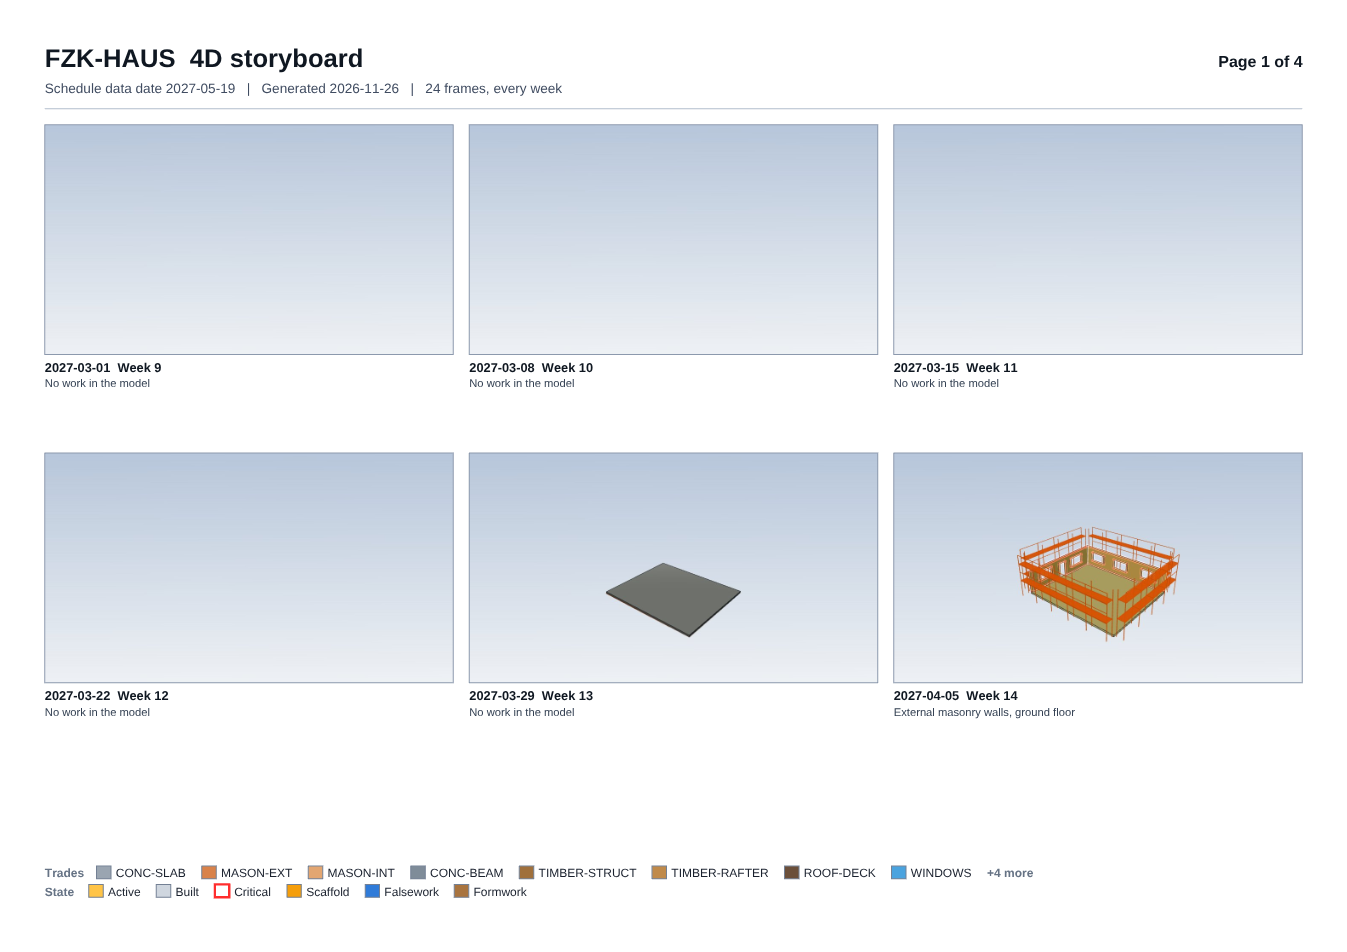
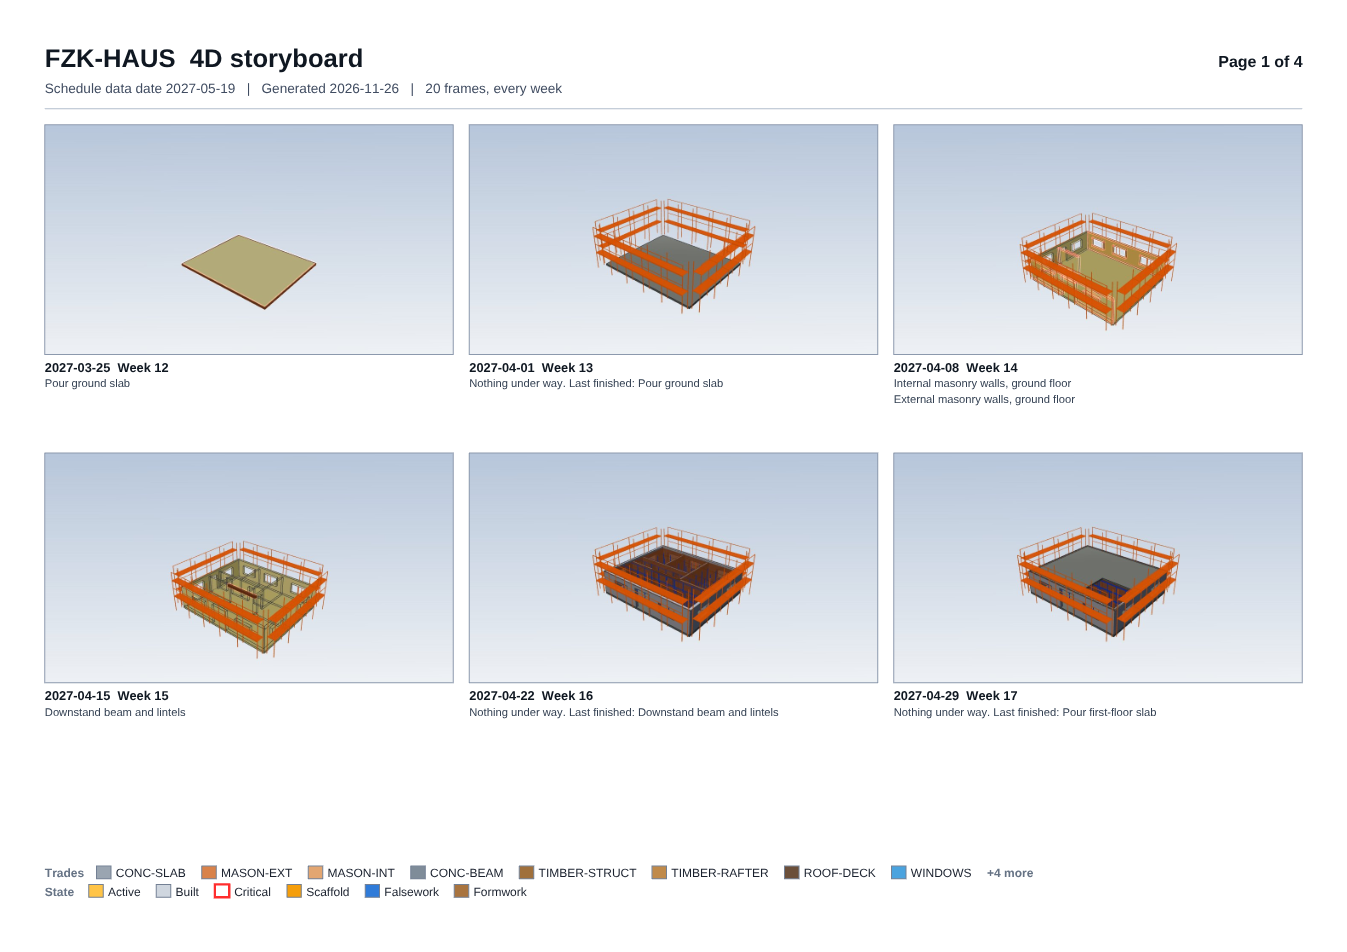
Storyboard starts at the first work in the model and names the last finished activity in quiet weeks; the play message no longer repeats the director note; the 4D strip stops before the gizmo on screen
Claude-Session: https://claude.ai/code/session_01Tq8KrjEb682fwDG9hgfxsD

diff --git a/web/src/schedule/storyboard.ts b/web/src/schedule/storyboard.ts
@@ -21,9 +21,19 @@ export function parseEvery(text: string | undefined): Every | null {
   return null;
 }
 
-/** The plan times (ms, increasing, inside the window) of the frames. The first frame is the start of the window, the last its end. */
+/** When the first activity that builds something in the model starts (ms), or null. Earlier frames would show an empty site. */
+export function firstWorkAt(plan: FourDPlan): number | null {
+  let t: number | null = null;
+  for (const k of plan.tasks) if (!k.milestone && k.elements > 0 && (t === null || k.start < t)) t = k.start;
+  return t;
+}
+
+/** The plan times (ms, increasing, inside the window) of the frames. The first frame is the start of the work in the model (the
+ *  start of the window when that is later), the last the end of the window. */
 export function storyboardDates(plan: FourDPlan, every: Every): number[] {
-  const { from, to } = plan.window;
+  const first = firstWorkAt(plan);
+  const to = plan.window.to;
+  const from = first !== null && first > plan.window.from && first < to ? first : plan.window.from;
   const out: number[] = [];
   const clip = (a: number[]): number[] => [...new Set(a.filter((x) => x >= from && x <= to))].sort((a, b) => a - b);
   switch (every.kind) {
@@ -79,7 +89,12 @@ export function captionAt(plan: FourDPlan, ms: number): FrameCaption {
   const running = plan.tasks.filter((k) => !k.milestone && k.start <= ms && ms < k.end && k.elements > 0).sort((a, b) => b.elements - a.elements || a.code.localeCompare(b.code));
   const lines = running.slice(0, CAPTION_ACTIVITIES).map((k) => k.name);
   if (running.length > CAPTION_ACTIVITIES) lines.push(`+${running.length - CAPTION_ACTIVITIES} more`);
-  if (lines.length === 0) lines.push(ms >= plan.window.to ? 'Complete' : 'No work in the model');
+  if (lines.length === 0) {
+    const done = plan.tasks.filter((k) => !k.milestone && k.elements > 0 && k.end <= ms).sort((a, b) => b.end - a.end);
+    if (ms >= plan.window.to) lines.push('Complete');
+    else if (done.length) lines.push(`Nothing under way. Last finished: ${done[0]!.name}`);
+    else lines.push('Before the work in the model');
+  }
   return { date, week: wk.week, weekYear: wk.year, title: `${date}  Week ${wk.week}`, lines };
 }
 

diff --git a/web/tests/fourd-storyboard.test.ts b/web/tests/fourd-storyboard.test.ts
@@ -4,7 +4,7 @@ import { buildDemoPlan } from '../src/anim/fourd/demoPlan';
 import type { DemoModel } from '../src/anim/fourd/demoPlan';
 import { legendContent, legendOn, stripOn } from '../src/anim/fourd/legend';
 import { stripGroups, stripLayout, stripHeight, MAX_STRIP_ROWS } from '../src/anim/hud/strip';
-import { captionAt, buildStoryboardPdf, pageLayout, parseEvery, planStoryboard, storyboardDates, winAnsi, PAGE_POINTS } from '../src/schedule/storyboard';
+import { captionAt, buildStoryboardPdf, firstWorkAt, pageLayout, parseEvery, planStoryboard, storyboardDates, winAnsi, PAGE_POINTS } from '../src/schedule/storyboard';
 import type { FourDPlan } from '../src/schedule/types';
 
 const classes = ['IfcSlab', 'IfcWall', 'IfcColumn', 'IfcDuctSegment', 'IfcCovering', 'IfcWindow'];
@@ -97,7 +97,16 @@ describe('schedule strip layout', () => {
 });
 
 describe('storyboard frame dates', () => {
-  const { from, to } = plan.window;
+  // Frames start where the work in the model starts (empty site frames before it are left out), at the latest the window start.
+  const to = plan.window.to;
+  const fw = firstWorkAt(plan);
+  const from = fw !== null && fw > plan.window.from ? fw : plan.window.from;
+  it('starts at the first activity that builds something, not at an empty site', () => {
+    expect(storyboardDates(plan, { kind: 'week' })[0]).toBeGreaterThanOrEqual(plan.window.from);
+    expect(storyboardDates(plan, { kind: 'week' })[0]).toBe(from);
+    const caption = captionAt(plan, plan.window.from - 1);
+    expect(caption.lines[0]).toMatch(/Before the work|Nothing under way|Complete/);
+  });
   it('week: every seven days from the start, ending on the last day', () => {
     const d = storyboardDates(plan, { kind: 'week' });
     expect(d[0]).toBe(from);

diff --git a/web/src/anim/hud/fourd.ts b/web/src/anim/hud/fourd.ts
@@ -58,6 +58,8 @@ export interface FourDLayoutInput {
   bottomLift: number;
   /** The compass sits top right: keep the S-curve below it. */
   compass: boolean;
+  /** CSS pixels at the right of the bottom edge to keep free (on-screen controls such as the gizmo); 0 in a video. */
+  reserveRight?: number;
   progressBar: boolean;
 }
 
@@ -327,7 +329,8 @@ export function layoutFourD(ctx: Ctx, inp: FourDLayoutInput): FourDLayout {
     const rowH = compact ? 4 : 7;
     const gs = stripGroups(plan);
     const h = stripHeight(gs.length, plan.milestones.some((m) => m.at >= stripRange(plan)[0] && m.at <= stripRange(plan)[1]), rowH);
-    const rect: Rect = { x: margin, y: bottomEdge - h, w: Math.max(40, W - 2 * margin), h };
+    const reserve = Math.min(Math.max(0, inp.reserveRight ?? 0), W * 0.5);
+    const rect: Rect = { x: margin, y: bottomEdge - h, w: Math.max(40, W - 2 * margin - reserve), h };
     if (gs.length > 0 && rect.y >= topLeftBottom) {
       const lay = stripLayout(plan, rect, v.planMs, { rowH });
       desc.strip = { rect, rows: lay.rows.length, bars: lay.rows.reduce((n, r) => n + r.bars.length, 0), marker: lay.marker.x };

diff --git a/web/src/anim/hud/overlay.ts b/web/src/anim/hud/overlay.ts
@@ -95,8 +95,23 @@ export class HudOverlay {
       pixelRatio: this.dpr,
       project: this.projector(cam),
       recording: false,
+      reserveRight: this.gizmoReserve(),
     });
     this.drawn = true;
+  }
+
+  /** How much of the bottom edge the gizmo covers, from its right end (CSS pixels), so the 4D strip stops before it. */
+  private gizmoReserve(): number {
+    try {
+      const g = document.getElementById('xray-gizmo');
+      if (!g || g.offsetParent === null) return 0;
+      const gr = g.getBoundingClientRect();
+      const cr = this.canvas.getBoundingClientRect();
+      if (gr.width === 0 || gr.top >= cr.bottom || gr.bottom <= cr.bottom - 120 || gr.left >= cr.right) return 0;
+      return Math.max(0, Math.round(cr.right - gr.left + 8));
+    } catch {
+      return 0;
+    }
   }
 
   /** Project with the full canvas (the camera's aspect), then shift into the drawing area; points outside it give null. */

diff --git a/web/src/map4d/scheduleController.ts b/web/src/map4d/scheduleController.ts
@@ -455,7 +455,7 @@ export class ScheduleController {
     if (!player) return { ok: false, message: 'The score player is not available.' };
     const ok = player.play(score, { ...(from !== undefined ? { from } : {}), onEnd: () => this.emit() });
     this.emit();
-    return ok ? { ok: true, message: this.note || `Playing ${Math.round(this.playDur)} seconds.` } : { ok: false, message: 'The player could not start.' };
+    return ok ? { ok: true, message: `Playing ${Math.round(this.playDur)} seconds.` } : { ok: false, message: 'The player could not start.' };
   }
 
   /**

diff --git a/web/src/anim/hud.ts b/web/src/anim/hud.ts
@@ -21,6 +21,9 @@ export interface HudFrame {
   project(p: V3): { x: number; y: number } | null;
   /** True while exporting a video (the layer may hide on-screen-only bits such as hints). */
   recording: boolean;
+  /** Additive: CSS pixels at the right of the bottom edge covered by on-screen controls (the gizmo); bottom-anchored HUD bands
+   *  such as the 4D schedule strip stop before it. 0 or absent in a video. */
+  reserveRight?: number;
 }
 
 export interface HudLayer {

diff --git a/web/src/anim/hud/layer.ts b/web/src/anim/hud/layer.ts
@@ -225,6 +225,7 @@ export class ScoreHudLayer implements HudLayer {
         bottomLift: barLift + (st.scaleBar ? 26 : 0),
         compass: st.compass,
         progressBar: st.progress,
+        reserveRight: frame.recording ? 0 : frame.reserveRight ?? 0,
       });
       desc.fourd = lay.desc;
       occupied.push(...lay.occupied);
